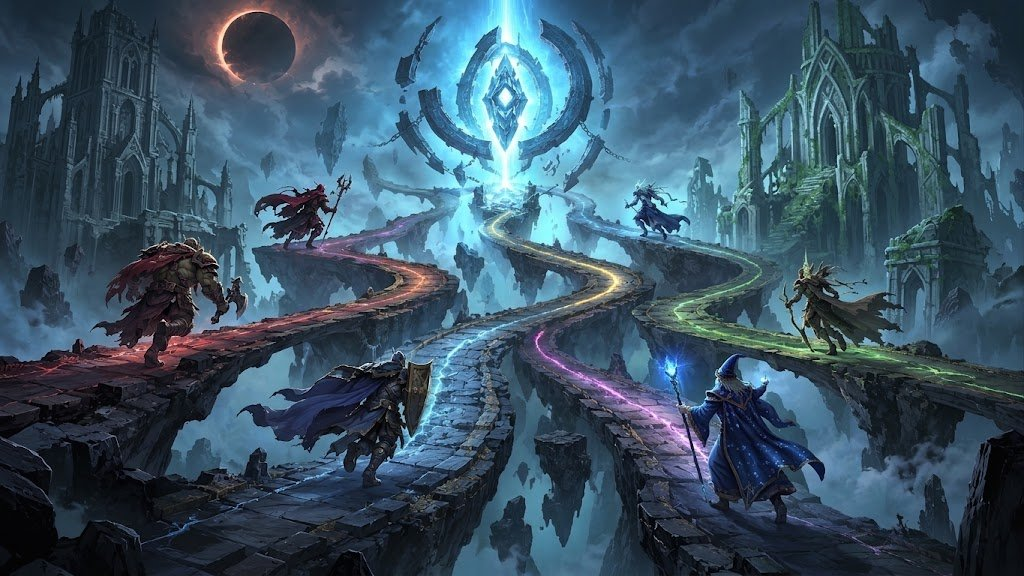
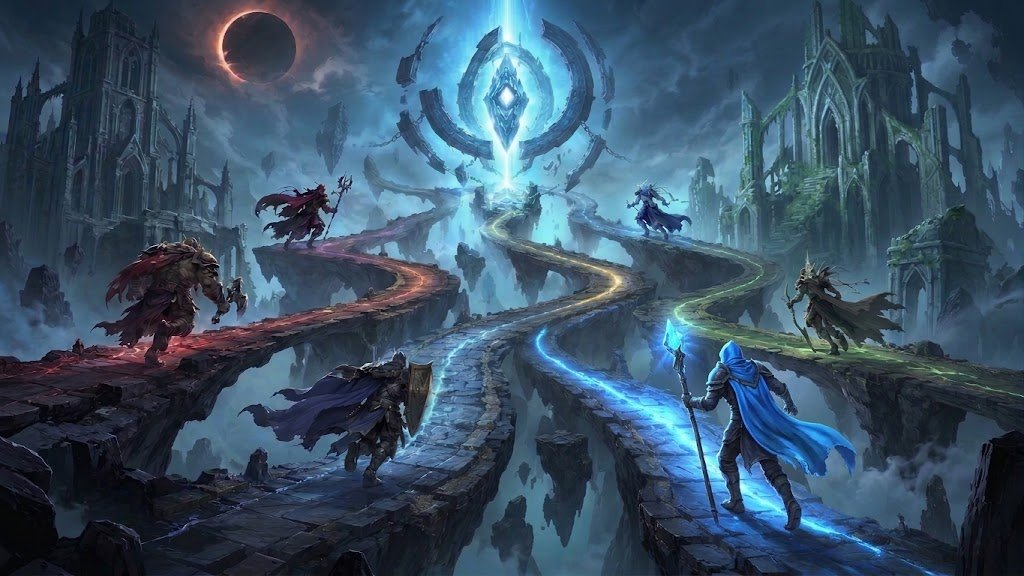
Фон меню: третья версия Gemini
Claude-Session: https://claude.ai/code/session_0125GU6HqkyEWBVmn9GCYwYF

diff --git a/CLAUDE.md b/CLAUDE.md
@@ -63,7 +63,7 @@ src/App.tsx              корневой компонент: экраны (menu
 src/components/          UI-оверлеи поверх холста (чистый React + Tailwind)
   MainMenu.tsx           главное меню (просьба Артура 2026-11-01): четыре кнопки — Кампания (карта, сложность, звёзды), Бесконечный режим
                          (карта, враги, сложность, рекорд), Дуэль (сразу в DuelLobby), Настройки (аккаунт, звук, бестиарий, «Как играть», весь экран);
-                         страница — `menuPage` в App.tsx, Esc — назад; фон — арт GPT, правленный в Gemini, `public/art/menu-bg.jpg` (исходники `art/concepts/menu/`, сейчас `menu-bg-v2.jpg`) под тёмной вуалью (выбор Артура 2026-11-01); ссылка на Telegram Артура (t.me/popataras, «По вопросам сотрудничества»; она же в «Как играть»)
+                         страница — `menuPage` в App.tsx, Esc — назад; фон — арт GPT, правленный в Gemini, `public/art/menu-bg.jpg` (исходники `art/concepts/menu/`, сейчас `menu-bg-v3.jpg`) под тёмной вуалью (выбор Артура 2026-11-01); ссылка на Telegram Артура (t.me/popataras, «По вопросам сотрудничества»; она же в «Как играть»)
   Bestiary.tsx           бестиарий из Настроек и из меню паузы (там открывается на фракции текущих врагов): вкладки пяти фракций, карточка на каждого врага и босса (картинка + описание из src/bestiary.ts); ниже врагов и босса на той же странице фракции — раздел «Башни» (просьба Артура 2026-11-01, без переключателей): башни этой расы с числами из config.ts и лором (`TOWER_LORE`, `RACE_TOWER_LORE`)
   LevelBriefing.tsx      описание фракции и босса перед уровнем, башни выбранной расы
   RacePicker.tsx         выбор расы игрока (шесть кнопок) в меню кампании, бесконечного режима и в DuelLobby
